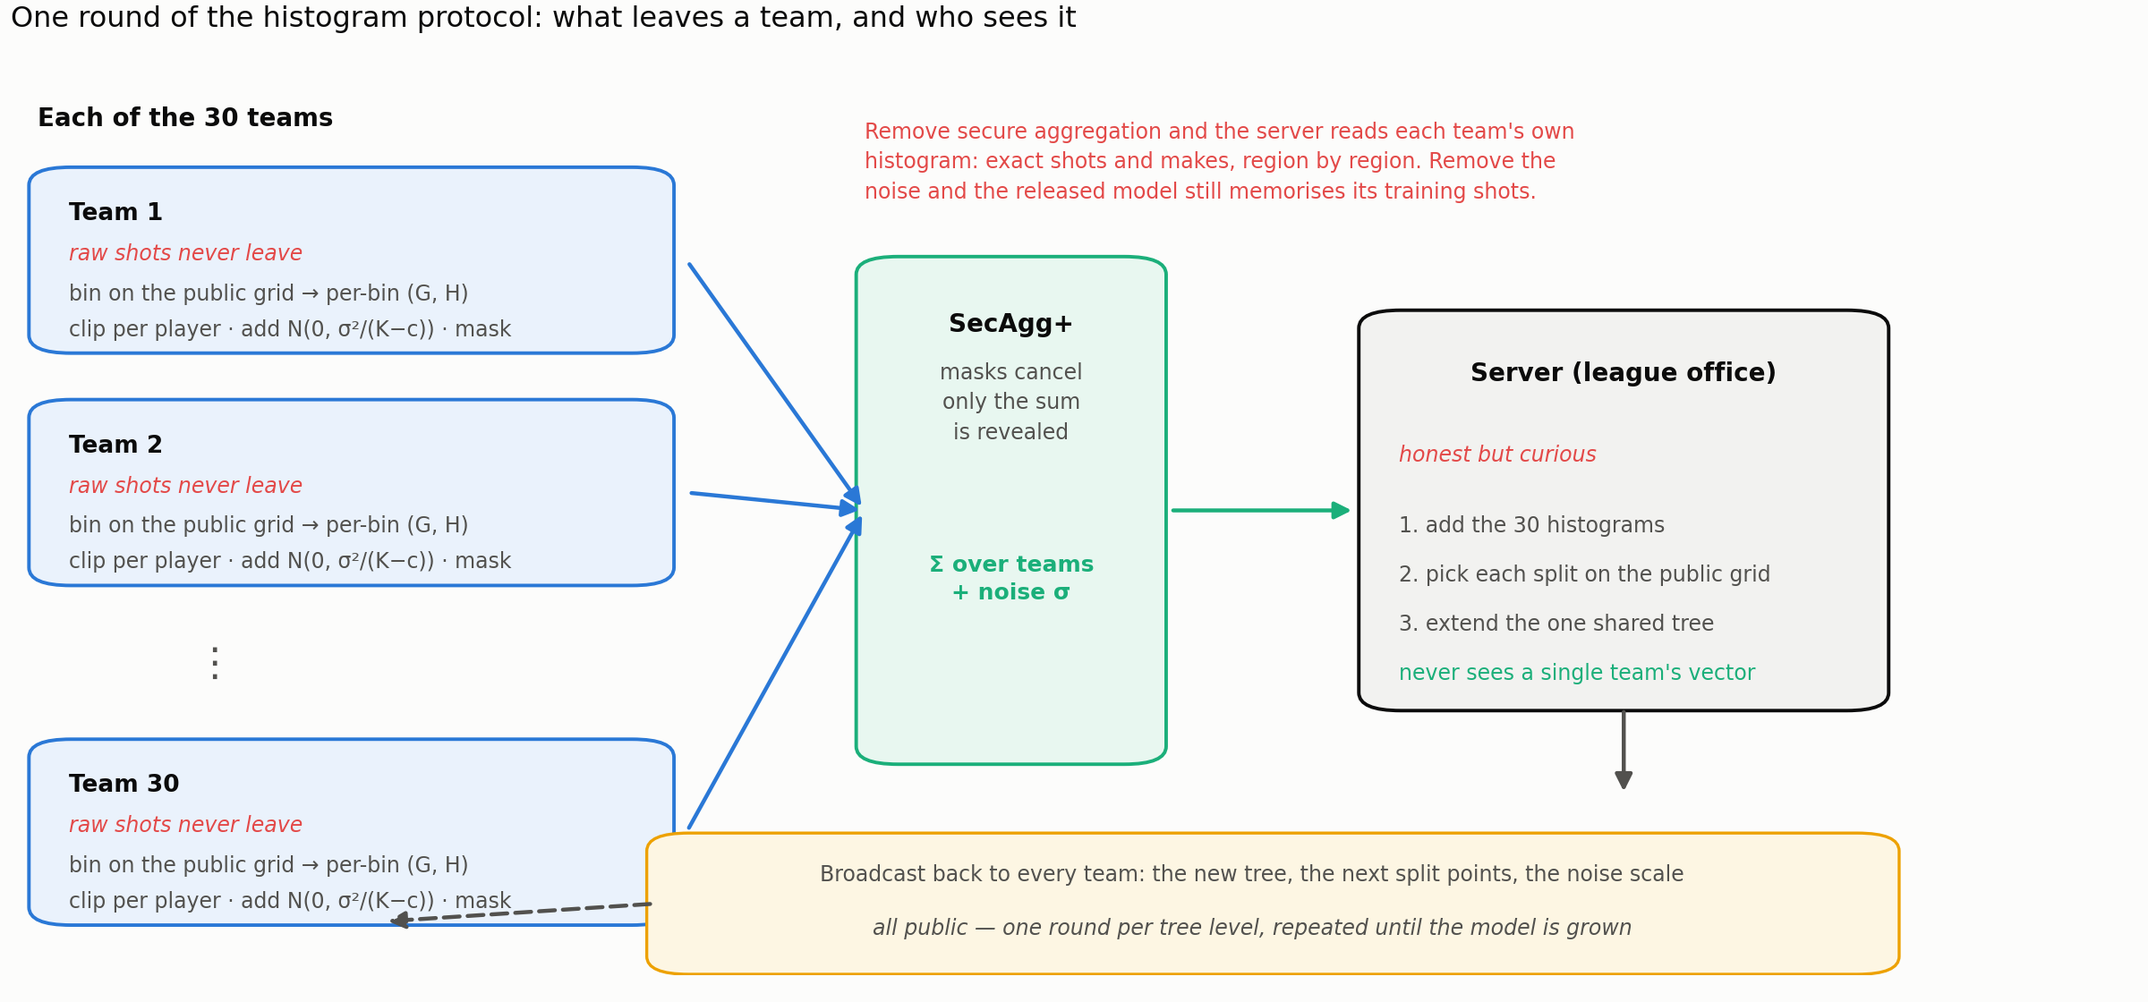
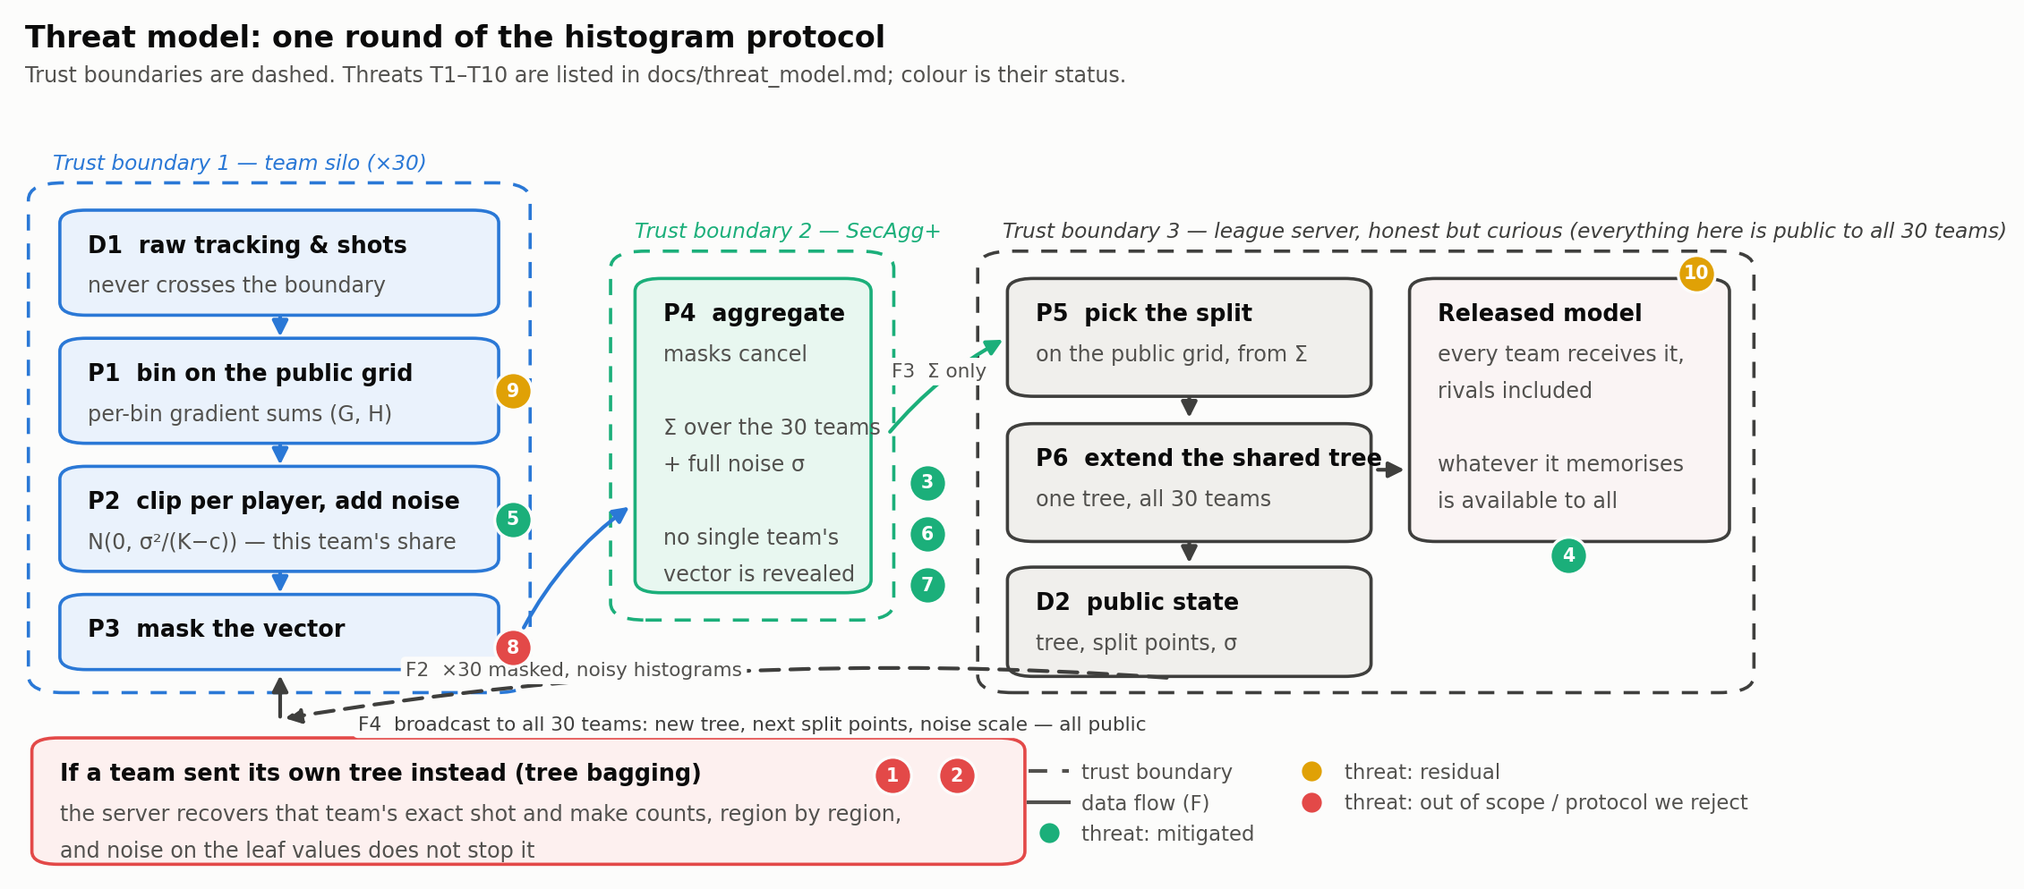
polish the readme

diff --git a/src/federated/plot_threat_model.py b/src/federated/plot_threat_model.py
@@ -1,12 +1,17 @@
 """
-plot_threat_model.py — one round of the histogram protocol, and who sees what.
+plot_threat_model.py — data-flow + threat diagram for the paper's threat-model section.
 
-Draws the data flow for the paper's threat-model section: shots stay on each team,
-only noisy binned sums leave, secure aggregation exposes just their total, and the
-server grows one shared tree that it broadcasts back.
+One round of the histogram protocol, drawn the way a threat model is usually drawn:
+trust boundaries (dashed), processes (P), data stores (D), numbered data flows (F) and
+the threats (T) that sit on them, coloured by status. The numbering matches the table in
+docs/threat_model.md.
+
+  boundary 1  the team silo (×30)   raw shots never cross it
+  boundary 2  secure aggregation    only the sum of the 30 vectors is ever revealed
+  boundary 3  the league server     honest but curious; everything here is public to all teams
 
 Run from the project root:  python src/federated/plot_threat_model.py
-Writes: results/federated/threat_model.png (copy to assets/ for the README/paper)
+Writes: results/federated/threat_model.png (and assets/threat_model.png)
 """
 
 from pathlib import Path
@@ -14,81 +19,138 @@ from pathlib import Path
 import matplotlib
 matplotlib.use("Agg")
 import matplotlib.pyplot as plt
+from matplotlib.lines import Line2D
 from matplotlib.patches import FancyArrowPatch, FancyBboxPatch
 
-RESULTS_FED = Path(__file__).resolve().parents[2] / "results" / "federated"
+ROOT = Path(__file__).resolve().parents[2]
+RESULTS_FED, ASSETS = ROOT / "results" / "federated", ROOT / "assets"
+
 INK, INK2, SURFACE = "#0b0b0b", "#52514e", "#fcfcfb"
-TEAM, SEC, SERVER, LEAK = "#2a78d6", "#1baf7a", "#0b0b0b", "#e34948"
+TEAM, SEC, SERVER = "#2a78d6", "#1baf7a", "#3f3f3d"
+OK, PARTIAL, OPEN = "#1baf7a", "#e0a106", "#e34948"       # threat status
+FILL = {TEAM: "#eaf2fc", SEC: "#e8f7f0", SERVER: "#f0efec"}
 
 
-def box(ax, x, y, w, h, fc, ec, lw=1.4, r=0.02, z=2):
-    ax.add_patch(FancyBboxPatch((x, y), w, h, boxstyle=f"round,pad=0.004,rounding_size={r}",
-                                fc=fc, ec=ec, lw=lw, zorder=z))
+def box(ax, x, y, w, h, ec, title, lines=(), fc=None, lw=1.3, fs=8.6):
+    ax.add_patch(FancyBboxPatch((x, y), w, h, boxstyle="round,pad=0.004,rounding_size=0.015",
+                                fc=fc or FILL[ec], ec=ec, lw=lw, zorder=2))
+    ax.text(x + 0.012, y + h - 0.045, title, fontsize=fs + 0.6, color=INK, fontweight="bold",
+            zorder=3)
+    for i, line in enumerate(lines):
+        ax.text(x + 0.012, y + h - 0.092 - i * 0.043, line, fontsize=fs, color=INK2, zorder=3)
 
 
-def arrow(ax, p, q, colour=INK2, lw=1.6, style="-|>", ls="-", z=3):
-    ax.add_patch(FancyArrowPatch(p, q, arrowstyle=style, mutation_scale=14, color=colour,
-                                 lw=lw, ls=ls, shrinkA=2, shrinkB=2, zorder=z))
+def boundary(ax, x, y, w, h, colour, label):
+    ax.add_patch(FancyBboxPatch((x, y), w, h, boxstyle="round,pad=0.006,rounding_size=0.02",
+                                fc="none", ec=colour, lw=1.3, ls=(0, (5, 4)), zorder=1))
+    ax.text(x + 0.008, y + h + 0.022, label, fontsize=8.4, color=colour, style="italic", zorder=3)
+
+
+def arrow(ax, p, q, colour=INK2, lw=1.5, ls="-", rad=0.0):
+    ax.add_patch(FancyArrowPatch(p, q, arrowstyle="-|>", mutation_scale=13, color=colour, lw=lw,
+                                 ls=ls, shrinkA=2, shrinkB=2, zorder=3,
+                                 connectionstyle=f"arc3,rad={rad}"))
+
+
+def flow(ax, x, y, text, colour=INK2):
+    ax.text(x, y, text, fontsize=7.8, color=colour, ha="center", va="center", zorder=4,
+            bbox=dict(boxstyle="round,pad=0.25", fc=SURFACE, ec="none"))
+
+
+def threat(ax, x, y, label, status):
+    ax.plot(x, y, marker="o", ms=15, mfc=status, mec=SURFACE, mew=1.2, zorder=5)
+    ax.text(x, y, label, fontsize=7.4, color="white", fontweight="bold",
+            ha="center", va="center", zorder=6)
 
 
 def main():
-    fig, ax = plt.subplots(figsize=(12, 5.6), dpi=200)
+    fig, ax = plt.subplots(figsize=(12.6, 6.2), dpi=200)
     fig.patch.set_facecolor(SURFACE); ax.set_facecolor(SURFACE)
     ax.set_xlim(0, 1); ax.set_ylim(0, 1); ax.axis("off")
 
-    # ── teams ────────────────────────────────────────────────────────────────
-    ax.text(0.005, 0.95, "Each of the 30 teams", fontsize=10, color=INK, fontweight="bold")
-    rows = [(0.70, "Team 1"), (0.44, "Team 2"), (0.06, "Team 30")]
-    for y, name in rows:
-        box(ax, 0.005, y, 0.30, 0.20, "#eaf2fc", TEAM)
-        ax.text(0.02, y + 0.145, name, fontsize=9.5, color=INK, fontweight="bold")
-        ax.text(0.02, y + 0.10, "raw shots never leave", fontsize=8.5, color=LEAK, style="italic")
-        ax.text(0.02, y + 0.055, "bin on the public grid → per-bin (G, H)", fontsize=8.5, color=INK2)
-        ax.text(0.02, y + 0.015, "clip per player · add N(0, σ²/(K−c)) · mask", fontsize=8.5, color=INK2)
-        arrow(ax, (0.315, y + 0.10), (0.40, 0.52), TEAM)
-    ax.text(0.08, 0.335, "⋮", fontsize=16, color=INK2)
+    ax.text(0.004, 0.965, "Threat model: one round of the histogram protocol",
+            fontsize=12, color=INK, fontweight="bold")
+    ax.text(0.004, 0.925, "Trust boundaries are dashed. Threats T1–T10 are listed in "
+            "docs/threat_model.md; colour is their status.", fontsize=8.6, color=INK2)
 
-    # ── secure aggregation ───────────────────────────────────────────────────
-    box(ax, 0.40, 0.24, 0.14, 0.56, "#e8f7f0", SEC)
-    ax.text(0.47, 0.72, "SecAgg+", fontsize=10, color=INK, fontweight="bold", ha="center")
-    ax.text(0.47, 0.60, "masks cancel\nonly the sum\nis revealed", fontsize=8.5, color=INK2,
-            ha="center", linespacing=1.5)
-    ax.text(0.47, 0.42, "Σ over teams\n+ noise σ", fontsize=9, color=SEC, ha="center",
-            fontweight="bold", linespacing=1.4)
-    arrow(ax, (0.545, 0.52), (0.635, 0.52), SEC)
+    # ── boundary 1: the team silo ────────────────────────────────────────────
+    boundary(ax, 0.012, 0.215, 0.275, 0.585, TEAM, "Trust boundary 1 — team silo (×30)")
+    box(ax, 0.028, 0.655, 0.243, 0.115, TEAM, "D1  raw tracking & shots",
+        ["never crosses the boundary"])
+    box(ax, 0.028, 0.505, 0.243, 0.115, TEAM, "P1  bin on the public grid",
+        ["per-bin gradient sums (G, H)"])
+    box(ax, 0.028, 0.355, 0.243, 0.115, TEAM, "P2  clip per player, add noise",
+        ["N(0, σ²/(K−c)) — this team's share"])
+    box(ax, 0.028, 0.240, 0.243, 0.080, TEAM, "P3  mask the vector", [])
+    for y0, y1 in ((0.655, 0.620), (0.505, 0.470), (0.355, 0.320)):
+        arrow(ax, (0.150, y0), (0.150, y1), TEAM)
+    threat(ax, 0.283, 0.562, "9", PARTIAL)      # public grid set after inspecting data
+    threat(ax, 0.283, 0.412, "5", OK)           # collusion / dropout budget
+    threat(ax, 0.283, 0.262, "8", OPEN)         # malicious client contributions
 
-    # ── server ───────────────────────────────────────────────────────────────
-    box(ax, 0.64, 0.30, 0.245, 0.44, "#f2f2f0", SERVER)
-    ax.text(0.7625, 0.665, "Server (league office)", fontsize=10, color=INK,
-            fontweight="bold", ha="center")
-    ax.text(0.655, 0.575, "honest but curious", fontsize=8.5, color=LEAK, style="italic")
-    for i, step in enumerate(["1. add the 30 histograms",
-                              "2. pick each split on the public grid",
-                              "3. extend the one shared tree"]):
-        ax.text(0.655, 0.495 - i * 0.055, step, fontsize=8.5, color=INK2)
-    ax.text(0.655, 0.33, "never sees a single team's vector", fontsize=8.5, color=SEC)
+    # ── boundary 2: secure aggregation ───────────────────────────────────────
+    boundary(ax, 0.345, 0.300, 0.150, 0.420, SEC, "Trust boundary 2 — SecAgg+")
+    box(ax, 0.357, 0.330, 0.127, 0.360, SEC, "P4  aggregate",
+        ["masks cancel", "", "Σ over the 30 teams", "+ full noise σ", "", "no single team's",
+         "vector is revealed"])
+    arrow(ax, (0.288, 0.280), (0.352, 0.430), TEAM, rad=-0.12)
+    flow(ax, 0.318, 0.235, "F2  ×30 masked, noisy histograms")
+    for by, label in ((0.455, "3"), (0.395, "6"), (0.335, "7")):
+        threat(ax, 0.520, by, label, OK)        # no SecAgg → per-team vector, ε inflation, lattice
 
-    # ── broadcast loop ───────────────────────────────────────────────────────
-    arrow(ax, (0.7625, 0.30), (0.7625, 0.20), INK2)
-    box(ax, 0.30, 0.005, 0.59, 0.15, "#fdf6e3", "#eda100", lw=1.2)
-    ax.text(0.585, 0.105, "Broadcast back to every team: the new tree, the next split points, "
-            "the noise scale", fontsize=8.5, color=INK2, ha="center")
-    ax.text(0.585, 0.045, "all public — one round per tree level, repeated until the model is grown",
-            fontsize=8.5, color=INK2, ha="center", style="italic")
-    arrow(ax, (0.30, 0.08), (0.17, 0.06), INK2, ls=(0, (4, 2)))
+    # ── boundary 3: the server / public zone ─────────────────────────────────
+    boundary(ax, 0.555, 0.215, 0.432, 0.505, SERVER,
+             "Trust boundary 3 — league server, honest but curious (everything here is public "
+             "to all 30 teams)")
+    box(ax, 0.570, 0.560, 0.200, 0.130, SERVER, "P5  pick the split",
+        ["on the public grid, from Σ"])
+    box(ax, 0.570, 0.390, 0.200, 0.130, SERVER, "P6  extend the shared tree",
+        ["one tree, all 30 teams"])
+    box(ax, 0.570, 0.232, 0.200, 0.120, SERVER, "D2  public state",
+        ["tree, split points, σ"])
+    box(ax, 0.800, 0.390, 0.175, 0.300, SERVER, "Released model",
+        ["every team receives it,", "rivals included", "", "whatever it memorises", "is available to all"],
+        fc="#faf4f4", lw=1.3)
+    arrow(ax, (0.497, 0.510), (0.566, 0.625), SEC, rad=-0.1)
+    flow(ax, 0.527, 0.585, "F3  Σ only")
+    arrow(ax, (0.670, 0.560), (0.670, 0.525), SERVER)
+    arrow(ax, (0.670, 0.390), (0.670, 0.355), SERVER)
+    arrow(ax, (0.775, 0.470), (0.796, 0.470), SERVER)
+    threat(ax, 0.887, 0.370, "4", OK)           # membership inference on the released model
+    threat(ax, 0.960, 0.700, "10", PARTIAL)     # league structure revealed by design
 
-    # ── what an adversary would get without each layer ───────────────────────
-    ax.text(0.40, 0.955, "Remove secure aggregation and the server reads each team's own\n"
-            "histogram: exact shots and makes, region by region. Remove the\n"
-            "noise and the released model still memorises its training shots.",
-            fontsize=8.5, color=LEAK, va="top", linespacing=1.5)
+    # broadcast back to every team (F4)
+    arrow(ax, (0.660, 0.226), (0.150, 0.178), SERVER, ls=(0, (5, 3)), rad=0.06)
+    flow(ax, 0.420, 0.172, "F4  broadcast to all 30 teams: new tree, next split points, noise "
+                           "scale — all public", SERVER)
+    arrow(ax, (0.150, 0.175), (0.150, 0.235), SERVER)
 
-    fig.suptitle("One round of the histogram protocol: what leaves a team, and who sees it",
-                 x=0.005, y=0.995, ha="left", fontsize=11.5, color=INK)
-    fig.tight_layout()
+    # ── the counterfactual: sending the tree itself ──────────────────────────
+    box(ax, 0.012, 0.012, 0.560, 0.140, OPEN, "If a team sent its own tree instead (tree bagging)",
+        ["the server recovers that team's exact shot and make counts, region by region,",
+         "and noise on the leaf values does not stop it"], fc="#fdf0ef", lw=1.3)
+    threat(ax, 0.500, 0.112, "1", OPEN)
+    threat(ax, 0.537, 0.112, "2", OPEN)
+
+    # ── legend ───────────────────────────────────────────────────────────────
+    handles = [Line2D([], [], ls=(0, (5, 4)), color=INK2, label="trust boundary"),
+               Line2D([], [], color=INK2, label="data flow (F)"),
+               Line2D([], [], marker="o", ls="", mfc=OK, mec=SURFACE, ms=9,
+                      label="threat: mitigated"),
+               Line2D([], [], marker="o", ls="", mfc=PARTIAL, mec=SURFACE, ms=9,
+                      label="threat: residual"),
+               Line2D([], [], marker="o", ls="", mfc=OPEN, mec=SURFACE, ms=9,
+                      label="threat: out of scope / protocol we reject")]
+    ax.legend(handles=handles, loc="lower right", frameon=False, fontsize=8.2, ncol=2,
+              labelcolor=INK2, handletextpad=0.6, columnspacing=1.8,
+              bbox_to_anchor=(1.0, 0.01))
+
+    RESULTS_FED.mkdir(parents=True, exist_ok=True)
     out = RESULTS_FED / "threat_model.png"
-    fig.savefig(out, facecolor=SURFACE); plt.close(fig)
-    print(f"Wrote {out}")
+    fig.savefig(out, facecolor=SURFACE, bbox_inches="tight"); print(f"Wrote {out}")
+    fig.savefig(ASSETS / "threat_model.png", facecolor=SURFACE, bbox_inches="tight")
+    print(f"Wrote {ASSETS / 'threat_model.png'}")
+    plt.close(fig)
 
 
 if __name__ == "__main__":

diff --git a/src/federated/anim_protocol.py b/src/federated/anim_protocol.py
@@ -99,14 +99,14 @@ class Scene:
         span = BEATS[beat + 1] - BEATS[beat]
         t = ease(min((frame - BEATS[beat]) / max(span - 6, 1), 1.0))
 
-        ax.text(3.5, 29.6, "Histogram aggregation under SecAgg+", color=TEXT, fontsize=11,
+        ax.text(3.5, 29.6, "Histogram aggregation under SecAgg+", color=TEXT, fontsize=14,
                 fontweight="bold", va="center")
         captions = ["Every team bins its own shots. Nothing leaves yet.",
                     "Each team sends a masked histogram — alone, it is noise.",
                     "The masks cancel: only the league total is revealed.",
                     "Every team also adds its 1/\u221a30 share of Gaussian noise: ε = 1 for every shot.",
                     "One shared tree grows from the noisy sum — every shot covered at ε = 1."]
-        ax.text(3.5, 26.8, captions[beat], color=MUTED, fontsize=8.5, va="center")
+        ax.text(3.5, 26.8, captions[beat], color=MUTED, fontsize=10.5, va="center")
 
         # ── the 30 teams ────────────────────────────────────────────
         for i, (x, y) in enumerate(self.silos):
@@ -114,7 +114,7 @@ class Scene:
             grown = ease(np.clip((frame - BEATS[0] - i * 0.28) / 7, 0, 1)) if beat == 0 else 1.0
             bars(ax, x + 0.45, y + 0.5, SILO_W - 0.9, (SILO_H - 1.1) * grown, self.hists[i],
                  BLUE, alpha=0.9)
-        ax.text(GRID_X0, 2.4, "30 franchises · raw shots stay home", color=MUTED, fontsize=7.5)
+        ax.text(GRID_X0, 2.4, "30 franchises · raw shots stay home", color=MUTED, fontsize=9.5)
 
         # ── packets in flight (beat 1) ──────────────────────────────
         if beat == 1:
@@ -131,12 +131,12 @@ class Scene:
                 noise = self.rng.random(NBINS)
                 fade = np.clip((1 - p) / 0.2, 0, 1)            # absorbed by the server
                 bars(ax, px - 0.9, py - 0.6, 1.8, 1.5, noise, RED, alpha=0.9 * fade)
-            ax.text(SERVER_X - 9.5, 3.4, "masked share + noise share", color=RED, fontsize=7.5)
+            ax.text(SERVER_X - 10.5, 3.4, "masked share + noise share", color=RED, fontsize=9.5)
 
         # ── the server ──────────────────────────────────────────────
         self.board(SERVER_X, SERVER_Y, SERVER_W, SERVER_H, ec=EDGE)
         ax.text(SERVER_X + SERVER_W / 2, SERVER_Y + SERVER_H - 1.6, "coordinating server",
-                color=MUTED, fontsize=7.5, ha="center", va="center")
+                color=MUTED, fontsize=9.5, ha="center", va="center")
         if beat == 0:
             shown, colour, alpha = np.zeros(NBINS), RED, 0.0   # nothing has arrived yet
         elif beat == 1:
@@ -154,14 +154,14 @@ class Scene:
         if beat >= 2:
             note = "league totals only" if beat == 2 else "league totals + DP noise  (ε = 1)"
             ax.text(SERVER_X + SERVER_W / 2, SERVER_Y + 0.9, note,
-                    color=GREEN, fontsize=7.5, ha="center", va="center")
+                    color=GREEN, fontsize=9, ha="center", va="center")
 
         # ── the shared tree ─────────────────────────────────────────
         if beat >= 4:
             self.tree(t)
         footer = ("Brier 0.2047 vs 0.2050 centralized" if beat < 3 else
                   "Brier 0.2047 no DP  ·  0.2183 at ε = 1  ·  centralized 0.2050")
-        ax.text(96.5, 2.4, footer, color=MUTED, fontsize=7.5, ha="right")
+        ax.text(96.5, 2.4, footer, color=MUTED, fontsize=9, ha="right")
 
     def tree(self, t):
         ax = self.ax
@@ -178,7 +178,7 @@ class Scene:
                     ax.plot([px, x], [y + 6.3, y], color=EDGE, lw=1.2, alpha=vis, zorder=2)
                 ax.add_patch(plt.Circle((x, y), 1.3, fc=GREEN if d else BLUE, ec=BG, lw=1.2,
                                         alpha=vis, zorder=3))
-        ax.text(TREE_X, TREE_Y + 4.4, "shared tree", color=MUTED, fontsize=7.5, ha="center")
+        ax.text(TREE_X, TREE_Y + 4.4, "shared tree", color=MUTED, fontsize=9.5, ha="center")
 
 
 def main():

diff --git a/README.md b/README.md
@@ -50,12 +50,18 @@ Federated rows are the mean over five seeds, with a game level bootstrap 95% CI 
 | + SecAgg + DP, per player | ε = 8 | 0.2223 | 0.677 | +8.4% |
 | Nothing | One team's own model (mean of 30) | 0.2249 | 0.659 | +9.7% |
 
+## Visualization of the protocol
+
+<p align="center">
+  <img src="assets/hero_privacy.gif" width="94%" alt="Histogram aggregation under SecAgg+: teams bin locally, send masked noisy histograms, the masks cancel, DP noise remains, and one shared tree grows from the sum">
+  <br><sub>Every team bins its own shots and sends a <b>masked</b>, <b>noisy</b> histogram. The masks cancel in the sum, so the server only ever sees league totals — plus the noise that buys ε = 1 for every shot — and grows <b>one shared tree</b> from them.</sub>
+</p>
 
 ## Findings
 
 ### 1. Federation alone is not privacy
 
-In round 1 every shot starts from the same public prior, so the per-node statistics XGBoost ships with each tree invert exactly: a node's hessian sum gives how many shots reached it, and its gradient sum gives how many went in. The obvious hardening (strip those statistics, move split points onto a public grid) removes the counts but still leaves each region's FG% readable to within 1.4 points. The histogram protocol is no safer on its own: without secure aggregation, the server reads every team's exact shooting in all **21,017** (feature, bin) cells of the first tree. With **SecAgg+**, it only ever sees the league total.
+In round 1 every shot starts from the same public prior, so the per node statistics XGBoost ships with each tree invert exactly: a node's hessian sum gives how many shots reached it, and its gradient sum gives how many went in. The obvious hardening (strip those statistics, move split points onto a public grid) removes the counts but still leaves each region's FG% readable to within 1.4 points. The histogram protocol is no safer on its own: without secure aggregation, the server reads every team's exact shooting in all **21,017** (feature, bin) cells of the first tree. With **SecAgg+**, it only ever sees the league total.
 → [`leakage_attack.py`](src/federated/leakage_attack.py), [`leakage_attack_hist.py`](src/federated/leakage_attack_hist.py)
 
 ### 2. Protocol choice decides accuracy
@@ -126,25 +132,7 @@ An XGBoost classifier is trained on game disjoint splits and judged on **probabi
 </tr>
 </table> -->
 
-## What the calibrated probability unlocks
 
-With a trustworthy P(make), a shot's value over an average shooter in the same situation is `POE = value × (outcome − P(make))`, computed out of fold so no player is flattered by a model that trained on their own shots.
-
-<p align="center">
-  <img src="assets/per_zone_poe.png" width="85%" alt="Per-zone POE decomposition">
-  <br><sub><b>Per-zone Points Over Expectation</b> — where each player creates or gives back expected points.</sub>
-</p>
-
-<table>
-<tr>
-<td width="50%"><img src="assets/shot_heatmap_curry_lbj.png" alt="Spatial shot charts"></td>
-<td width="50%"><img src="assets/matchup_heatmap.png" alt="Archetype matchup heatmap"></td>
-</tr>
-<tr>
-<td align="center"><sub><b>Shot charts</b> — different players, different shot regimes.</sub></td>
-<td align="center"><sub><b>Archetype matchups</b> — which offensive styles beat which defensive ones.</sub></td>
-</tr>
-</table>
 
 
 ## Repository tour
@@ -178,4 +166,8 @@ docs/                     Abstract, privacy section, architecture/runbook
 **Juan Manuel Oliver** — KU Leuven · [LinkedIn](https://www.linkedin.com/in/juanma-oliver) · [Kaggle](https://www.kaggle.com/juanmaoliver)
 
 **Rafa Galvez Vizcaino** — KU Leuven, COSIC
+
+## License
+
+Code in this repository is released under the MIT License — see [LICENSE](LICENSE). The 2015–16 SportVU tracking data is not covered by it and remains subject to its own terms.
 
